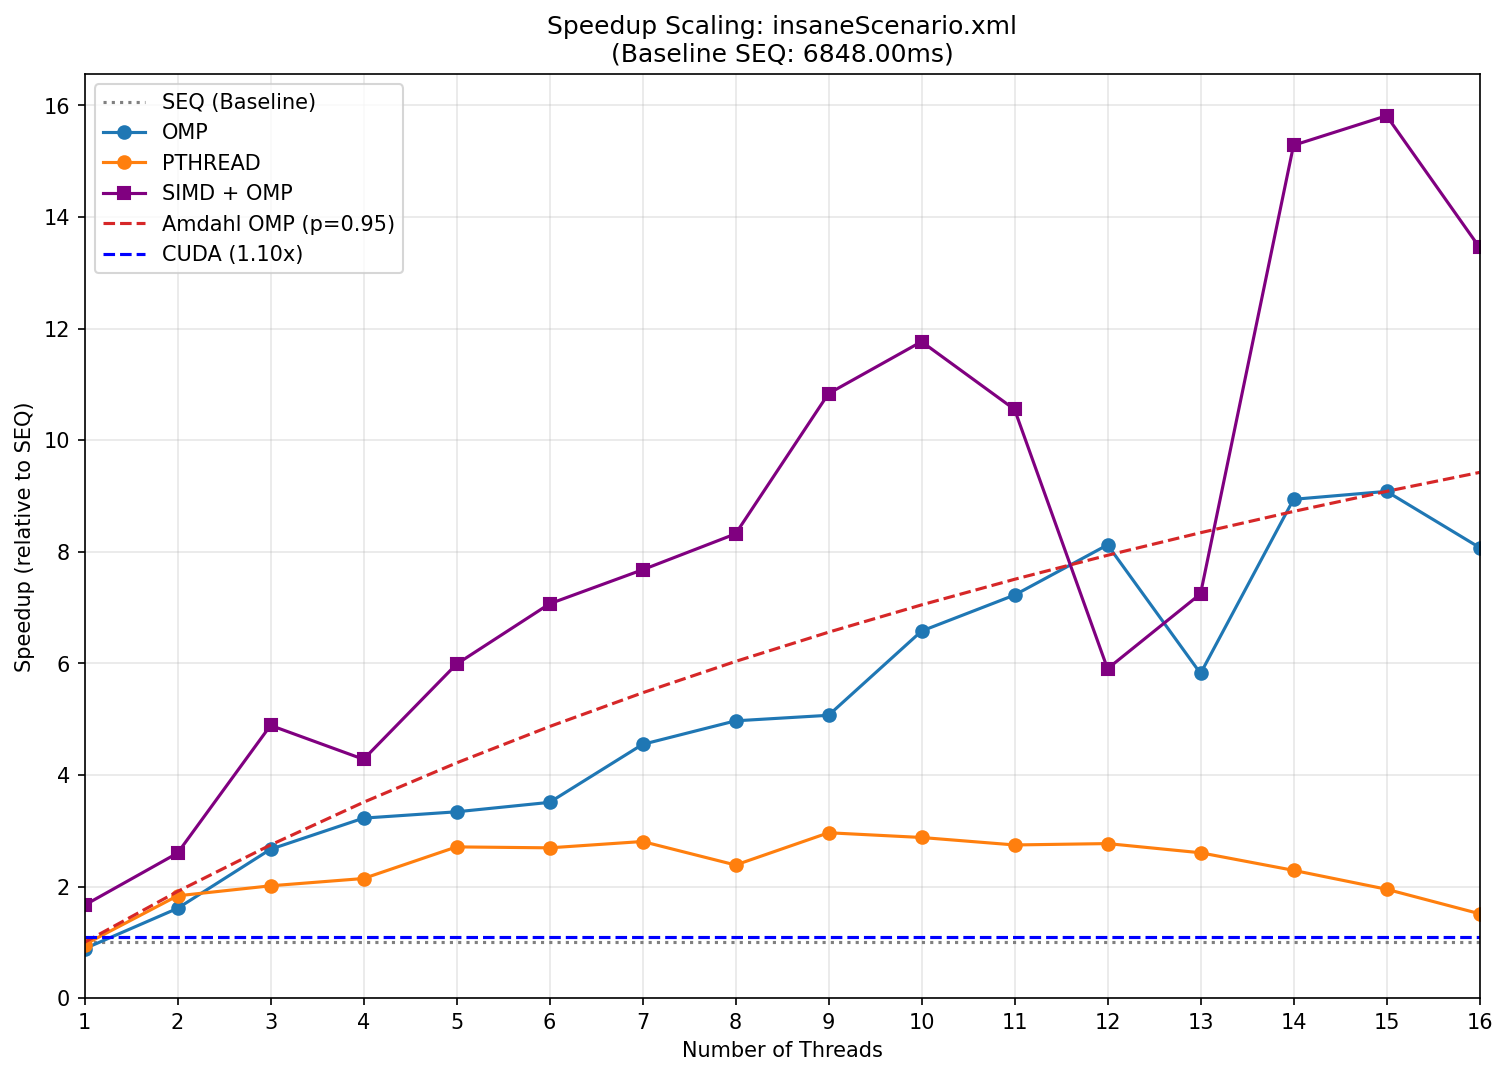
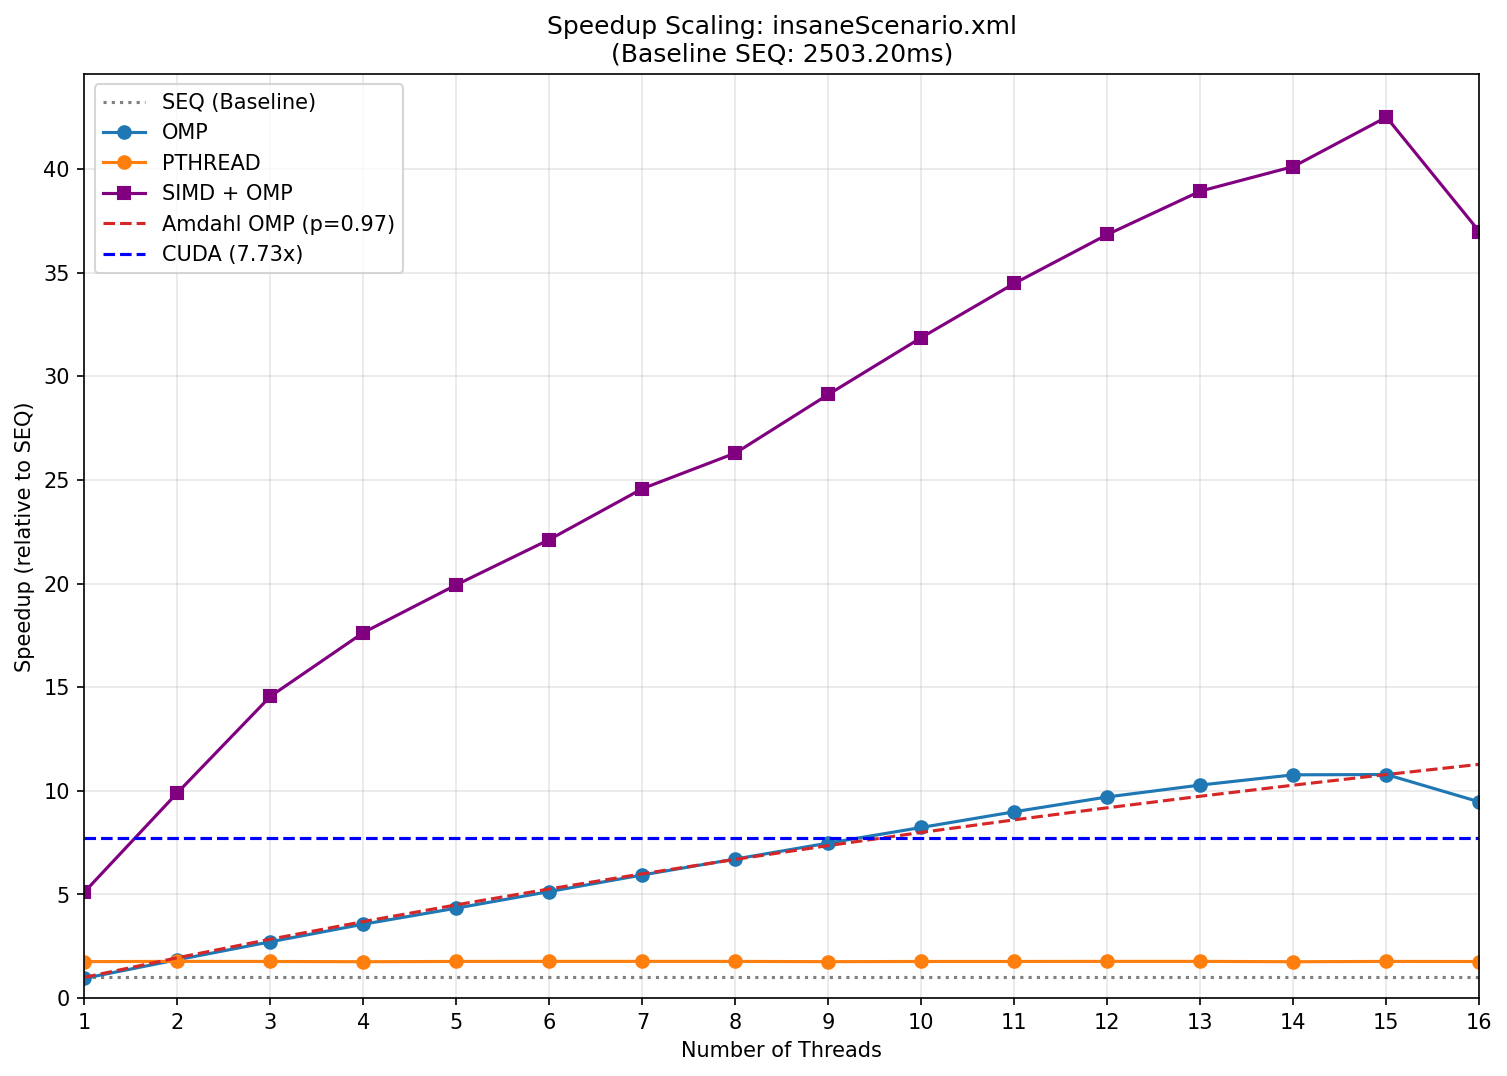
Final code for Assignment 2

diff --git a/libpedsim/ped_model.cpp b/libpedsim/ped_model.cpp
@@ -192,35 +192,33 @@ void Ped::Model::tickSEQ()
 {
     for (int i = 0; i < agentData.count; ++i)
     {
+        // Check if reached current destination
         float dx = agentData.destX[i] - agentData.x[i];
         float dy = agentData.destY[i] - agentData.y[i];
-        float distSq = fmaf(dx, dx, dy * dy); // FMA
-
-        if (distSq > 1e-10f)
-        {
-            float invDist = 1.0f / sqrtf(distSq);
-            agentData.x[i] = fmaf(dx, invDist, agentData.x[i]); // FMA
-            agentData.y[i] = fmaf(dy, invDist, agentData.y[i]); // FMA
+        float distSq = dx * dx + dy * dy;
+        float radiusSq = agentData.destR[i] * agentData.destR[i];
+        
+        // Update waypoint if reached
+        if (distSq < radiusSq && agentData.wpCount[i] > 0) {
+            int next = agentData.wpIndex[i] + 1;
+            if (next >= agentData.wpCount[i]) next = 0;
+            agentData.wpIndex[i] = next;
+            
+            int poolIdx = agentData.wpOffset[i] + next;
+            agentData.destX[i] = agentData.wpPoolX[poolIdx];
+            agentData.destY[i] = agentData.wpPoolY[poolIdx];
+            agentData.destR[i] = agentData.wpPoolR[poolIdx];
         }
-
+        
+        // Move toward current destination (1 unit step)
         dx = agentData.destX[i] - agentData.x[i];
         dy = agentData.destY[i] - agentData.y[i];
-        float newDistSq = fmaf(dx, dx, dy * dy); // FMA
-
-        if (newDistSq < (agentData.destR[i] * agentData.destR[i]))
-        {
-            if (agentData.wpCount[i] > 0)
-            {
-                int next = agentData.wpIndex[i] + 1;
-                if (next >= agentData.wpCount[i])
-                    next = 0; // Faster than modulo
-                agentData.wpIndex[i] = next;
-
-                int poolIdx = agentData.wpOffset[i] + next;
-                agentData.destX[i] = agentData.wpPoolX[poolIdx];
-                agentData.destY[i] = agentData.wpPoolY[poolIdx];
-                agentData.destR[i] = agentData.wpPoolR[poolIdx];
-            }
+        float length = sqrtf(dx * dx + dy * dy);
+        
+        if (length > 1e-6f) {
+            float invLength = 1.0f / length;
+            agentData.x[i] += dx * invLength;
+            agentData.y[i] += dy * invLength;
         }
     }
 }
@@ -228,38 +226,34 @@ void Ped::Model::tickSEQ()
 // Optimized OpenMP implementation
 void Ped::Model::tickOMP()
 {
-#pragma omp parallel for schedule(static)
+    #pragma omp parallel for schedule(static)
     for (int i = 0; i < agentData.count; ++i)
     {
         float dx = agentData.destX[i] - agentData.x[i];
         float dy = agentData.destY[i] - agentData.y[i];
-        float distSq = fmaf(dx, dx, dy * dy);
-
-        if (distSq > 1e-10f)
-        {
-            float invDist = 1.0f / sqrtf(distSq);
-            agentData.x[i] = fmaf(dx, invDist, agentData.x[i]);
-            agentData.y[i] = fmaf(dy, invDist, agentData.y[i]);
-        }
-
-        dx = agentData.destX[i] - agentData.x[i];
-        dy = agentData.destY[i] - agentData.y[i];
-        float newDistSq = fmaf(dx, dx, dy * dy);
-
-        if (newDistSq < (agentData.destR[i] * agentData.destR[i]))
-        {
-            if (agentData.wpCount[i] > 0)
-            {
+        float distSq = dx * dx + dy * dy;
+        
+        if (distSq < agentData.destR[i] * agentData.destR[i]) {
+            if (agentData.wpCount[i] > 0) {
                 int next = agentData.wpIndex[i] + 1;
-                if (next >= agentData.wpCount[i])
-                    next = 0;
+                if (next >= agentData.wpCount[i]) next = 0;
                 agentData.wpIndex[i] = next;
-
+                
                 int poolIdx = agentData.wpOffset[i] + next;
                 agentData.destX[i] = agentData.wpPoolX[poolIdx];
                 agentData.destY[i] = agentData.wpPoolY[poolIdx];
                 agentData.destR[i] = agentData.wpPoolR[poolIdx];
+                
+                dx = agentData.destX[i] - agentData.x[i];
+                dy = agentData.destY[i] - agentData.y[i];
             }
+        }
+        
+        float distSqNew = dx * dx + dy * dy;
+        if (distSqNew > 1e-10f) {
+            float invDist = 1.0f / sqrtf(distSqNew);
+            agentData.x[i] += dx * invDist;
+            agentData.y[i] += dy * invDist;
         }
     }
 }
@@ -277,33 +271,29 @@ void Ped::Model::tickPTHREAD()
         {
             float dx = agentData.destX[i] - agentData.x[i];
             float dy = agentData.destY[i] - agentData.y[i];
-            float distSq = fmaf(dx, dx, dy * dy);
-
-            if (distSq > 1e-10f)
-            {
-                float invDist = 1.0f / sqrtf(distSq);
-                agentData.x[i] = fmaf(dx, invDist, agentData.x[i]);
-                agentData.y[i] = fmaf(dy, invDist, agentData.y[i]);
-            }
-
-            dx = agentData.destX[i] - agentData.x[i];
-            dy = agentData.destY[i] - agentData.y[i];
-            float newDistSq = fmaf(dx, dx, dy * dy);
-
-            if (newDistSq < (agentData.destR[i] * agentData.destR[i]))
-            {
-                if (agentData.wpCount[i] > 0)
-                {
+            float distSq = dx * dx + dy * dy;
+            
+            if (distSq < agentData.destR[i] * agentData.destR[i]) {
+                if (agentData.wpCount[i] > 0) {
                     int next = agentData.wpIndex[i] + 1;
-                    if (next >= agentData.wpCount[i])
-                        next = 0;
+                    if (next >= agentData.wpCount[i]) next = 0;
                     agentData.wpIndex[i] = next;
-
+                    
                     int poolIdx = agentData.wpOffset[i] + next;
                     agentData.destX[i] = agentData.wpPoolX[poolIdx];
                     agentData.destY[i] = agentData.wpPoolY[poolIdx];
                     agentData.destR[i] = agentData.wpPoolR[poolIdx];
+                    
+                    dx = agentData.destX[i] - agentData.x[i];
+                    dy = agentData.destY[i] - agentData.y[i];
                 }
+            }
+            
+            float distSqNew = dx * dx + dy * dy;
+            if (distSqNew > 1e-10f) {
+                float invDist = 1.0f / sqrtf(distSqNew);
+                agentData.x[i] += dx * invDist;
+                agentData.y[i] += dy * invDist;
             }
         }
     };
@@ -364,7 +354,7 @@ void Ped::Model::tickVECTOR()
         __m256 reachedMask = _mm256_cmp_ps(newDistSq, radiusSq, _CMP_LT_OQ);
         int maskBits = _mm256_movemask_ps(reachedMask);
 
-        // Update waypoints (scalar fallback)
+        // Update waypoints
         if (maskBits != 0)
         {
             for (int j = 0; j < AGENTS_PER_VECTOR && (i + j) < agentData.count; ++j)
@@ -431,8 +421,6 @@ void Ped::Model::setupCUDA()
 void Ped::Model::tickCUDA()
 {
 #ifdef USE_CUDA
-    // NO COPIES TO GPU - data already there!
-
     // Launch kernel
     cudaKernelfunction(
         cudaData.d_x, cudaData.d_y,

diff --git a/benchmark_plot.py b/benchmark_plot.py
@@ -6,9 +6,10 @@ import numpy as np
 
 # Configuration
 SCENARIOS = ["hugeScenario.xml", "scenario_box.xml", "scenario.xml", "insaneScenario.xml"]
+# SCENARIOS = ["scenario.xml"]
 EXECUTABLE = "./demo/demo"
 MAX_THREADS = 16
-RUNS = 1 # Set to 3-5 for final submission to get smooth lines
+RUNS = 1# Set to 3-5 for final submission to get smooth lines
 
 def run_and_get_time(flag, threads, current_scenario):
     env = os.environ.copy()
@@ -144,7 +145,7 @@ for scenario_file in SCENARIOS:
     colors = ['#808080', '#ff9900', '#2ca02c', '#9467bd', '#1f77b4']
     bars = plt.bar(labels, plot_times, color=colors)
     plt.ylabel("Execution Time (ms)")
-    plt.title(f"3.6 Evaluation: Best Execution Times\nScenario: {scenario_file}")
+    plt.title(f"Best Execution Times\nScenario: {scenario_file}")
 
     for bar in bars:
         yval = bar.get_height()
